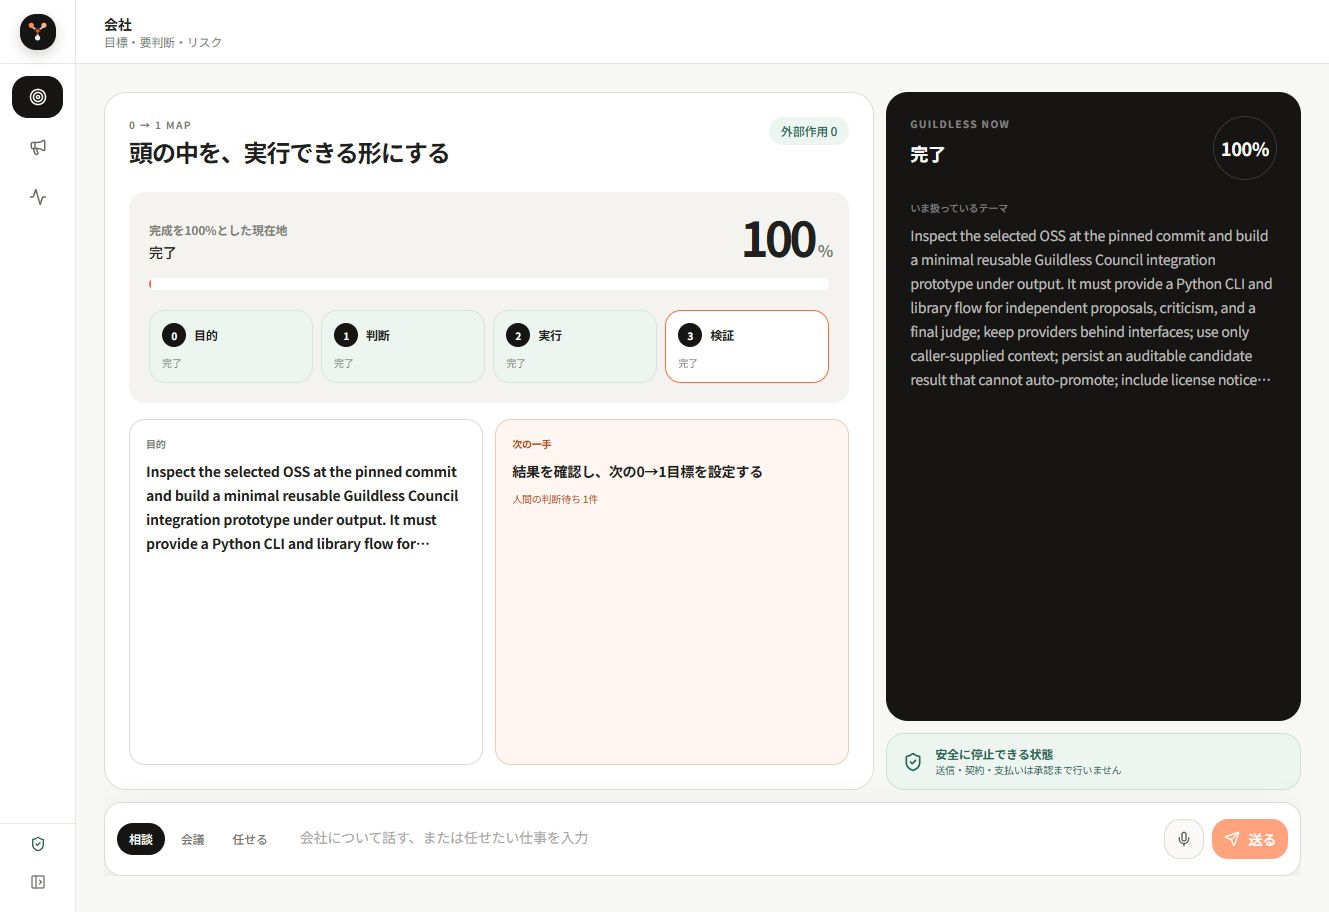
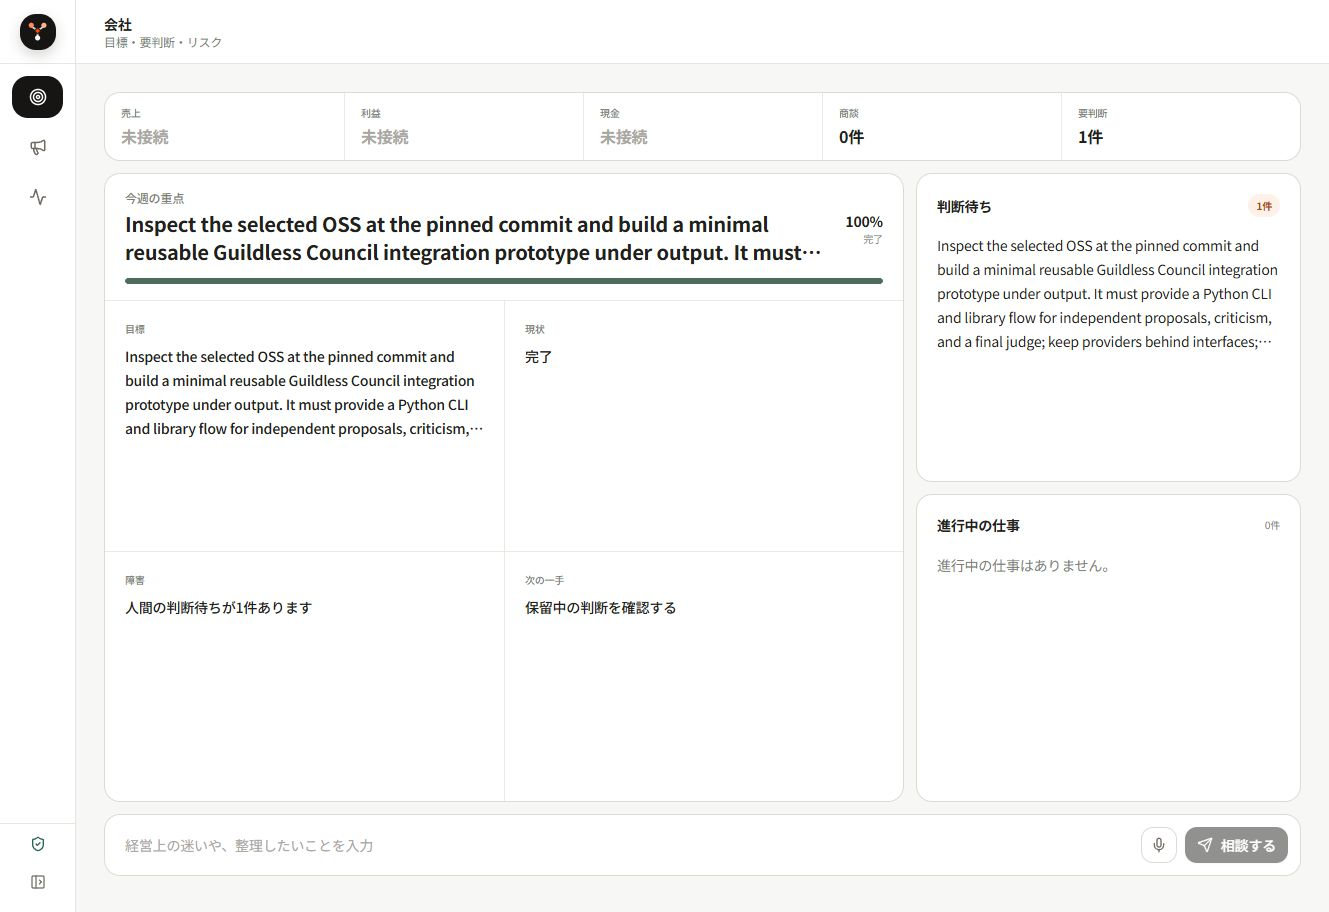
Replace AI-styled home with company operations overview

diff --git a/frontend/src/ceo-home.tsx b/frontend/src/ceo-home.tsx
@@ -1,19 +1,17 @@
 import { FormEvent, useEffect, useRef, useState } from 'react'
-import { CircleStop, LoaderCircle, Mic, Send, ShieldCheck } from 'lucide-react'
+import { CircleStop, LoaderCircle, Mic, Send } from 'lucide-react'
 import { Button } from '@/components/ui/button'
 
 type Job = { job_id: string; status: string; objective: string; updated_at: string; approval_required: boolean; external_actions_performed: boolean }
 type JobPayload = { job_id: string; status: string; result?: Record<string, unknown> }
-type Mode = 'consult' | 'council' | 'delegate'
 type CouncilReply = { run_id: string; status: string; final_result?: { final_decision?: { decision?: string; next_action?: string } } | null }
 type TranscriptionReply = { text: string; device: string }
 
 const terminalCouncilStates = new Set(['completed', 'degraded', 'failed'])
-const modeLabels: Record<Mode, string> = { consult: '相談', council: '会議', delegate: '任せる' }
 const statusCopy: Record<string, string> = {
-  queued: '開始待ち', researching: 'OSSを調査中', analysis_researching: '判断材料を収集中', analysis_proposing: '選択肢を作成中',
-  analysis_criticizing: '見落としを確認中', analysis_judging: '経営判断を比較中', cloning: '採用OSSを準備中', implementing: '成果物を作成中',
-  verifying: '結果を検証中', completed: '完了', degraded: '一部機能で完了', partial: '確認が必要', awaiting_approval: '承認待ち', failed: '安全停止',
+  queued: '開始待ち', researching: '調査中', analysis_researching: '情報収集中', analysis_proposing: '選択肢を作成中',
+  analysis_criticizing: '見落とし確認中', analysis_judging: '判断中', cloning: '準備中', implementing: '実行中',
+  verifying: '検証中', completed: '完了', degraded: '一部完了', partial: '要確認', awaiting_approval: '承認待ち', failed: '停止',
 }
 
 function completionPercent(status?: string) {
@@ -25,12 +23,13 @@ function completionPercent(status?: string) {
   return status ? progress[status] ?? 10 : 0
 }
 
-function nextMove(progress: number) {
-  if (progress === 0) return '達成したい状態を一文で入力する'
-  if (progress < 55) return '選択肢とリスクを比べ、実行案を一つに絞る'
-  if (progress < 80) return '選んだ方法を、実行できる仕事へ分解する'
-  if (progress < 100) return '成果物と根拠を検証し、人間が承認する'
-  return '結果を確認し、次の0→1目標を設定する'
+function nextMove(progress: number, approvals: number) {
+  if (approvals > 0) return '保留中の判断を確認する'
+  if (progress === 0) return '今週達成したい状態を一文で決める'
+  if (progress < 55) return '集めた情報から実行案を一つに絞る'
+  if (progress < 80) return '決めた方針を担当と期限のある仕事へ分ける'
+  if (progress < 100) return '成果物と根拠を確認して完了を判断する'
+  return '結果を確認し、次の重点目標を決める'
 }
 
 async function requestJson<T>(url: string, init?: RequestInit): Promise<T> {
@@ -40,10 +39,7 @@ async function requestJson<T>(url: string, init?: RequestInit): Promise<T> {
   return payload as T
 }
 
-export function CeoHome({ jobs, selectedJob, onDelegate }: {
-  jobs: Job[]; selectedJob: JobPayload | null; onDelegate: (objective?: string) => void
-}) {
-  const [mode, setMode] = useState<Mode>('consult')
+export function CeoHome({ jobs, selectedJob }: { jobs: Job[]; selectedJob: JobPayload | null }) {
   const [prompt, setPrompt] = useState('')
   const [recording, setRecording] = useState(false)
   const [transcribing, setTranscribing] = useState(false)
@@ -57,11 +53,11 @@ export function CeoHome({ jobs, selectedJob, onDelegate }: {
   const chunksRef = useRef<Blob[]>([])
 
   const current = jobs[0]
-  const approvalCount = jobs.filter(item => item.approval_required || item.status === 'awaiting_approval').length
-  const answer = run?.final_result?.final_decision
   const currentStatus = selectedJob?.status || current?.status
   const progress = completionPercent(currentStatus)
-  const phase = progress < 25 ? 0 : progress < 55 ? 1 : progress < 92 ? 2 : 3
+  const approvalCount = jobs.filter(item => item.approval_required || item.status === 'awaiting_approval').length
+  const activeJobs = jobs.filter(item => !terminalCouncilStates.has(item.status) && !['partial', 'awaiting_approval'].includes(item.status)).slice(0, 3)
+  const answer = run?.final_result?.final_decision
 
   useEffect(() => {
     if (!run?.run_id || terminalCouncilStates.has(run.status)) return
@@ -117,51 +113,58 @@ export function CeoHome({ jobs, selectedJob, onDelegate }: {
 
   const submit = async (event: FormEvent) => {
     event.preventDefault(); const question = prompt.trim(); if (!question) return
-    if (mode === 'delegate') { onDelegate(question); return }
     setError(''); setAsking(true); setRun(null)
     try {
       setRun(await requestJson<CouncilReply>('/v1/council/runs', { method: 'POST', headers: { 'Content-Type': 'application/json' }, body: JSON.stringify({
-        task_type: 'general', mode: mode === 'council' ? 'fast' : 'local', question,
-        context: { source: 'guildless_ceo_desk', interaction_mode: mode },
-        allowed_providers: mode === 'council' ? ['deepseek', 'codex'] : ['deepseek'],
+        task_type: 'general', mode: 'local', question, context: { source: 'guildless_company_overview' }, allowed_providers: ['deepseek'],
       }) }))
     } catch (reason) { setError(reason instanceof Error ? reason.message : '相談できませんでした'); setAsking(false) }
   }
 
-  return <div className='grid h-[calc(100svh-8rem)] min-h-[620px] grid-rows-[1fr_auto] gap-3 overflow-hidden'>
-    <section className='grid min-h-0 gap-3 md:grid-cols-[1.3fr_.7fr]'>
-      <div className='flex min-h-0 flex-col rounded-[22px] border border-[#dedbd4] bg-white p-6'>
-        <div className='flex items-start justify-between gap-4'><div><p className='text-[10px] font-semibold tracking-[.14em] text-[#817d76]'>0 → 1 MAP</p><h1 className='mt-1 text-2xl font-semibold tracking-[-.045em]'>頭の中を、実行できる形にする</h1></div><span className='rounded-full bg-[#edf5f1] px-3 py-1.5 text-xs font-medium text-[#276453]'>外部作用 0</span></div>
+  const indicators = [
+    ['売上', '未接続'], ['利益', '未接続'], ['現金', '未接続'], ['商談', '0件'], ['要判断', `${approvalCount}件`],
+  ]
 
-        <div className='mt-6 rounded-2xl bg-[#f5f3ef] p-5'>
-          <div className='flex items-end justify-between gap-4'><div><p className='text-xs font-semibold text-[#817d76]'>完成を100%とした現在地</p><p className='mt-1 text-sm font-medium'>{statusCopy[currentStatus || ''] || '目標待ち'}</p></div><p className='text-5xl font-semibold tracking-[-.08em]'>{progress}<span className='ml-1 text-base text-[#817d76]'>%</span></p></div>
-          <div className='mt-4 h-3 overflow-hidden rounded-full bg-white'><div className='h-full rounded-full bg-[#ff6b32] transition-[width] duration-500' style={{ width: `${progress}%` }} /></div>
-          <div className='mt-5 grid grid-cols-4 gap-2'>{['目的', '判断', '実行', '検証'].map((label, index) => <div key={label} className={`rounded-xl border px-3 py-3 ${index === phase ? 'border-[#ff6b32] bg-white' : index < phase ? 'border-[#d7e5df] bg-[#edf5f1]' : 'border-transparent bg-white/60'}`}><div className='flex items-center gap-2'><span className={`grid size-6 place-items-center rounded-full text-[10px] font-semibold ${index <= phase ? 'bg-[#171513] text-white' : 'bg-[#e4e1da] text-[#817d76]'}`}>{index}</span><p className='text-xs font-semibold'>{label}</p></div><p className='mt-2 text-[10px] text-[#817d76]'>{progress === 100 || index < phase ? '完了' : index === phase ? '現在地' : '次へ'}</p></div>)}</div>
+  return <div className='grid h-[calc(100svh-8rem)] min-h-[620px] grid-rows-[auto_1fr_auto] gap-3 overflow-hidden'>
+    <section className='grid grid-cols-5 overflow-hidden rounded-xl border border-[#dedbd4] bg-white'>
+      {indicators.map(([label, value], index) => <div key={label} className={`px-4 py-3 ${index ? 'border-l border-[#ece9e3]' : ''}`}><p className='text-[10px] font-medium text-[#817d76]'>{label}</p><p className={`mt-1 text-base font-semibold ${value === '未接続' ? 'text-[#aaa69e]' : ''}`}>{value}</p></div>)}
+    </section>
+
+    <section className='grid min-h-0 gap-3 lg:grid-cols-[1.35fr_.65fr]'>
+      <div className='grid min-h-0 grid-rows-[auto_1fr] overflow-hidden rounded-xl border border-[#dedbd4] bg-white'>
+        <div className='border-b border-[#ece9e3] px-5 py-4'>
+          <div className='flex items-center justify-between gap-4'><div><p className='text-xs font-medium text-[#817d76]'>今週の重点</p><h1 className='mt-1 line-clamp-2 text-xl font-semibold leading-7'>{current?.objective || '重点目標が設定されていません'}</h1></div><div className='shrink-0 text-right'><p className='text-sm font-semibold'>{progress}%</p><p className='text-[10px] text-[#817d76]'>{statusCopy[currentStatus || ''] || '未設定'}</p></div></div>
+          <div className='mt-3 h-1.5 overflow-hidden rounded-full bg-[#ece9e3]'><div className='h-full rounded-full bg-[#4e6b5c]' style={{ width: `${progress}%` }} /></div>
         </div>
 
-        <div className='mt-4 grid min-h-0 flex-1 grid-cols-2 gap-3'>
-          <div className='min-h-0 rounded-2xl border border-[#dedbd4] p-4'><p className='text-[10px] font-semibold text-[#817d76]'>目的</p><p className='mt-2 line-clamp-4 text-sm font-semibold leading-6'>{current?.objective || '達成したい状態を入力してください。'}</p></div>
-          <div className='min-h-0 rounded-2xl border border-[#efc8b7] bg-[#fff6f1] p-4'><p className='text-[10px] font-semibold text-[#b94b1b]'>次の一手</p><p className='mt-2 text-sm font-semibold leading-6'>{nextMove(progress)}</p>{approvalCount > 0 && <p className='mt-2 text-[10px] text-[#b94b1b]'>人間の判断待ち {approvalCount}件</p>}</div>
+        <div className='grid min-h-0 grid-cols-2 grid-rows-2'>
+          <BusinessCell label='目標' value={current?.objective || '今週達成したい状態を入力する'} />
+          <BusinessCell label='現状' value={statusCopy[currentStatus || ''] || 'まだ開始していません'} borderLeft />
+          <BusinessCell label='障害' value={approvalCount ? `人間の判断待ちが${approvalCount}件あります` : currentStatus === 'failed' ? '処理が停止しています' : '重大な障害は記録されていません'} borderTop />
+          <BusinessCell label='次の一手' value={answer?.next_action || nextMove(progress, approvalCount)} borderLeft borderTop />
         </div>
       </div>
 
-      <div className='grid min-h-0 grid-rows-[1fr_auto] gap-3'>
-        <section className='flex min-h-0 flex-col rounded-[22px] bg-[#171513] p-6 text-white'>
-          <div className='flex items-start justify-between'><div><p className='text-[10px] font-semibold tracking-[.14em] text-white/45'>GUILDLESS NOW</p><h2 className='mt-2 text-lg font-semibold'>{asking ? '経営判断を作成中' : answer ? '回答ができました' : statusCopy[currentStatus || ''] || '待機中'}</h2></div><div className='grid size-16 place-items-center rounded-full border border-white/15 text-lg font-semibold'>{progress}%</div></div>
-          {asking ? <div className='grid flex-1 place-items-center'><LoaderCircle className='size-6 animate-spin text-[#ff7a45]' /></div> : answer ? <><p className='mt-5 min-h-0 flex-1 overflow-hidden text-sm leading-6 text-white/75'>{answer.decision}</p>{answer.next_action && <div className='mt-3 rounded-xl bg-white/[.07] p-3'><p className='text-[10px] text-white/45'>次の一手</p><p className='mt-1 text-xs leading-5'>{answer.next_action}</p></div>}</> : <div className='mt-5'><p className='text-[10px] text-white/45'>いま扱っているテーマ</p><p className='mt-2 line-clamp-7 text-sm leading-6 text-white/70'>{current?.objective || '入力を待っています。'}</p></div>}
+      <div className='grid min-h-0 grid-rows-[1fr_1fr] gap-3'>
+        <section className='min-h-0 overflow-hidden rounded-xl border border-[#dedbd4] bg-white p-5'>
+          <div className='flex items-center justify-between'><h2 className='text-sm font-semibold'>判断待ち</h2><span className={`rounded-full px-2 py-1 text-[10px] font-semibold ${approvalCount ? 'bg-[#fff1e9] text-[#a94712]' : 'bg-[#edf5f1] text-[#276453]'}`}>{approvalCount}件</span></div>
+          {asking ? <div className='grid h-full place-items-center'><LoaderCircle className='size-5 animate-spin text-[#817d76]' /></div> : answer ? <div className='mt-4'><p className='line-clamp-5 text-sm leading-6'>{answer.decision}</p>{answer.next_action && <p className='mt-3 border-l-2 border-[#4e6b5c] pl-3 text-xs leading-5 text-[#6f6b64]'>{answer.next_action}</p>}</div> : approvalCount ? <p className='mt-4 line-clamp-5 text-sm leading-6'>{current?.objective}</p> : <p className='mt-4 text-sm text-[#817d76]'>現在、確認が必要な判断はありません。</p>}
         </section>
-        <section className='flex items-center gap-3 rounded-[18px] border border-[#cfe0d9] bg-[#edf5f1] px-4 py-3 text-[#276453]'><ShieldCheck className='size-5 shrink-0' /><div><p className='text-xs font-semibold'>安全に停止できる状態</p><p className='text-[10px]'>送信・契約・支払いは承認まで行いません</p></div></section>
+
+        <section className='min-h-0 overflow-hidden rounded-xl border border-[#dedbd4] bg-white p-5'>
+          <div className='flex items-center justify-between'><h2 className='text-sm font-semibold'>進行中の仕事</h2><span className='text-[10px] text-[#817d76]'>{activeJobs.length}件</span></div>
+          <div className='mt-3 divide-y divide-[#ece9e3]'>{activeJobs.length ? activeJobs.map(item => <div key={item.job_id} className='flex items-center gap-3 py-2.5'><span className='size-1.5 shrink-0 rounded-full bg-[#4e6b5c]' /><p className='min-w-0 flex-1 truncate text-xs'>{item.objective}</p><span className='shrink-0 text-[10px] text-[#817d76]'>{completionPercent(item.status)}%</span></div>) : <p className='py-2 text-sm text-[#817d76]'>進行中の仕事はありません。</p>}</div>
+        </section>
       </div>
     </section>
 
-    <form onSubmit={submit} className='rounded-[18px] border border-[#dedbd4] bg-white p-3 shadow-[0_10px_35px_rgba(44,35,29,.07)]'>
-      <div className='flex items-center gap-2'>
-        <div className='flex shrink-0 gap-1'>{(Object.keys(modeLabels) as Mode[]).map(item => <button key={item} type='button' onClick={() => setMode(item)} className={`rounded-full px-3 py-2 text-xs font-medium ${mode === item ? 'bg-[#171513] text-white' : 'text-[#77736d] hover:bg-[#f2f0ec]'}`}>{modeLabels[item]}</button>)}</div>
-        <textarea ref={inputRef} value={prompt} onChange={event => setPrompt(event.target.value)} placeholder='会社について話す、または任せたい仕事を入力' aria-label='Guildlessへの相談内容' className='h-12 min-w-0 flex-1 resize-none border-0 bg-transparent px-3 py-3 text-sm outline-none placeholder:text-[#aaa69e]' />
-        <button type='button' onClick={toggleVoice} disabled={transcribing} aria-label={recording ? '録音を止める' : '音声で話す'} className={`grid size-10 shrink-0 place-items-center rounded-xl border ${recording ? 'border-[#ff4801] bg-[#fff0e9] text-[#c43c00]' : 'border-[#dedbd4] bg-[#faf9f7] text-[#5f5b55]'}`}>{transcribing ? <LoaderCircle className='size-4 animate-spin' /> : recording ? <CircleStop className='size-4' /> : <Mic className='size-4' />}</button>
-        <Button type='submit' disabled={!prompt.trim() || asking} className='h-10 shrink-0 rounded-xl bg-[#ff4801] px-4 text-white hover:bg-[#e54100]'>{asking ? <LoaderCircle className='size-4 animate-spin' /> : <Send className='size-4' />}{mode === 'delegate' ? '任せる' : '送る'}</Button>
-      </div>
-      {(error || voiceMessage) && <p className={`mt-1 px-2 text-[10px] ${error ? 'text-red-700' : 'text-[#817d76]'}`}>{error || voiceMessage}</p>}
+    <form onSubmit={submit} className='rounded-xl border border-[#dedbd4] bg-white px-3 py-2'>
+      <div className='flex items-center gap-2'><textarea ref={inputRef} value={prompt} onChange={event => setPrompt(event.target.value)} placeholder='経営上の迷いや、整理したいことを入力' aria-label='経営相談' className='h-11 min-w-0 flex-1 resize-none border-0 bg-transparent px-2 py-3 text-sm outline-none placeholder:text-[#aaa69e]' /><button type='button' onClick={toggleVoice} disabled={transcribing} aria-label={recording ? '録音を止める' : '音声で話す'} className={`grid size-9 shrink-0 place-items-center rounded-lg border transition-transform duration-150 active:scale-[.97] ${recording ? 'border-[#c66a3b] bg-[#fff1e9] text-[#a94712]' : 'border-[#dedbd4] text-[#6f6b64]'}`}>{transcribing ? <LoaderCircle className='size-4 animate-spin' /> : recording ? <CircleStop className='size-4' /> : <Mic className='size-4' />}</button><Button type='submit' disabled={!prompt.trim() || asking} className='h-9 shrink-0 rounded-lg bg-[#242421] px-4 text-white transition-transform duration-150 hover:bg-black active:scale-[.97]'>{asking ? <LoaderCircle className='size-4 animate-spin' /> : <Send className='size-4' />}相談する</Button></div>
+      {(error || voiceMessage) && <p className={`px-2 pb-1 text-[10px] ${error ? 'text-red-700' : 'text-[#817d76]'}`}>{error || voiceMessage}</p>}
     </form>
   </div>
+}
+
+function BusinessCell({ label, value, borderLeft = false, borderTop = false }: { label: string; value: string; borderLeft?: boolean; borderTop?: boolean }) {
+  return <div className={`min-h-0 p-5 ${borderLeft ? 'border-l border-[#ece9e3]' : ''} ${borderTop ? 'border-t border-[#ece9e3]' : ''}`}><p className='text-[10px] font-medium text-[#817d76]'>{label}</p><p className='mt-2 line-clamp-4 text-sm font-medium leading-6'>{value}</p></div>
 }

diff --git a/frontend/src/guildless-app.tsx b/frontend/src/guildless-app.tsx
@@ -133,7 +133,7 @@ export function GuildlessApp() {
 
       <main className='mx-auto h-[calc(100svh-4rem)] max-w-[1480px] overflow-hidden p-4 lg:p-7'>
         {error && <div className='absolute right-5 top-20 z-20 flex max-w-lg items-center gap-3 rounded-xl border border-red-200 bg-red-50 px-4 py-3 text-xs text-red-700 shadow-lg'><span className='line-clamp-2'>{error}</span><button onClick={() => setError('')} aria-label='エラーを閉じる'><X className='size-4' /></button></div>}
-        {view === 'home' && <CeoHome jobs={jobs} selectedJob={job} onDelegate={objective => { setDelegateObjective(objective || ''); setCreateOpen(true) }} />}
+        {view === 'home' && <CeoHome jobs={jobs} selectedJob={job} />}
         {view === 'growth' && <SalesMarketingView />}
         {view === 'work' && <ExecutionView jobs={jobs} selectedId={selectedId} onSelect={setSelectedId} job={job} events={events} council={council} artifacts={artifacts} audit={audit} onNew={() => { setDelegateObjective(''); setCreateOpen(true) }} onRefresh={refresh} />}
       </main>

diff --git a/UI_SOURCES.md b/UI_SOURCES.md
@@ -21,6 +21,16 @@ Guildless uses the TypeScript/Vite/shadcn component base from
 - Referenced boundary: operational list/detail/activity information hierarchy
 - No Atomic CRM source module is bundled into the Guildless runtime.
 
+### Paperclip company dashboard
+
+- Repository: https://github.com/paperclipai/paperclip
+- Commit: `19be4cf9278b70bc151063778a94bf38bfd5c903`
+- License: MIT
+- Inspected source: `ui/src/pages/Dashboard.tsx`
+- Adopted structure: compact company indicators, one active-work summary,
+  approvals, recent work and progressive disclosure instead of model-centric
+  cards. Guildless implements this structure independently in its own UI.
+
 ## Cloudflare OS UI source
 
 Guildless now directly adapts selected home-composer interaction and semantic

diff --git a/THIRD_PARTY_NOTICES.md b/THIRD_PARTY_NOTICES.md
@@ -36,6 +36,19 @@ The Cloudflare OS copyright and Apache License 2.0 terms remain applicable to
 these derived portions. A complete copy of the license is included at
 `frontend/CLOUDFLARE_OS_LICENSE`.
 
+## Paperclip dashboard design reference
+
+The Guildless company overview information hierarchy was adapted from the
+Paperclip company dashboard at fixed commit
+`19be4cf9278b70bc151063778a94bf38bfd5c903`.
+
+- Source: https://github.com/paperclipai/paperclip
+- License: MIT
+- Copyright (c) 2025 Paperclip AI
+- Inspected file: `ui/src/pages/Dashboard.tsx`
+- Reused boundary: company metrics, active work, approvals, and recent work
+  information hierarchy. No Paperclip runtime is bundled in Guildless.
+
 ## LangGraph
 
 This product uses LangGraph 1.2.9.
